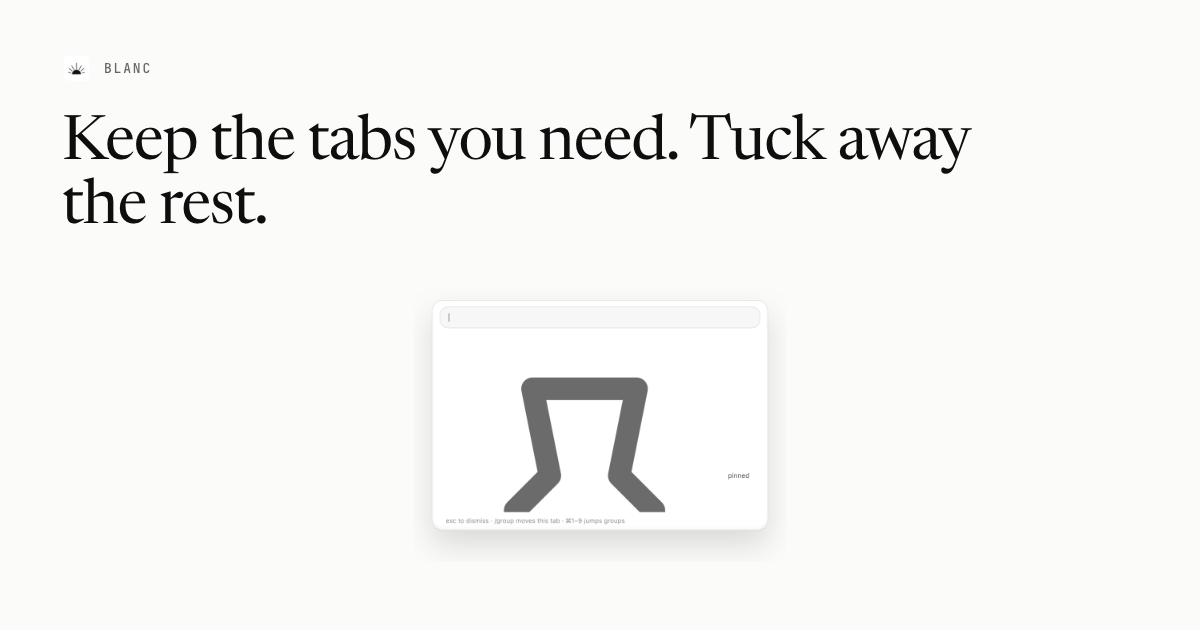
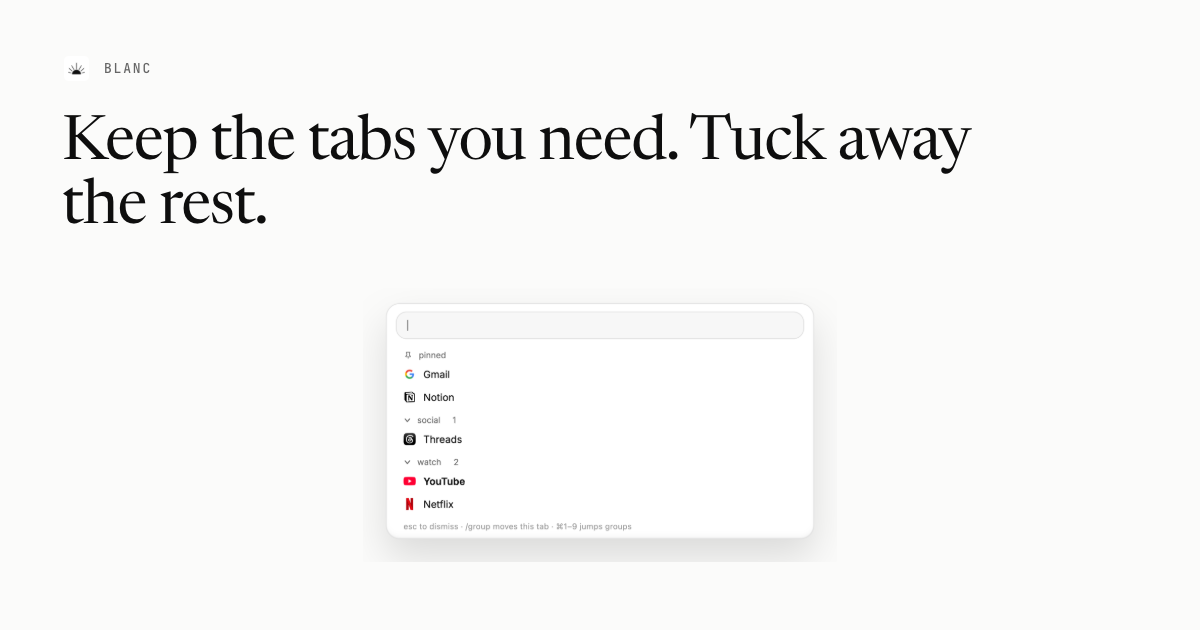
Fix oversized pin in tab-groups launch card (#282)

Changed region(s): [[0.3392, 0.573, 0.6167, 0.8746], [0.3392, 0.5429, 0.37, 0.6333]]

diff --git a/site/src/styles/site.css b/site/src/styles/site.css
@@ -665,6 +665,7 @@ a { color: inherit; }
 
 /* Section headers and named-group bands mirror the live panel. */
 .demo-island .sec-head { display: flex; align-items: center; gap: 8px; padding: 8px 10px 3px; font-family: var(--font-ui); font-size: 11px; color: var(--text-dim); }
+.demo-island .sec-head .ico { width: 12px; height: 12px; flex: 0 0 auto; }
 .demo-island .sec-head .caret { width: 10px; height: 10px; flex: 0 0 auto; transform: rotate(90deg); transition: transform 160ms ease; }
 .demo-island .sec-head.collapsed .caret { transform: rotate(0deg); }
 .demo-island .sec-head .count { flex: 0 0 auto; }
@@ -2144,4 +2145,3 @@ body[data-page="press"] > .legal-top { display: none; }
 .release-body h2 { font-size: 25px; }
 .download-detail-list h3, .feature-copy-list h3, .ambassador-fit-grid h3, .ambassador-steps h3 { font-size: 22px; letter-spacing: -0.005em; }
 .site-footer .foot-identity p { font-size: 20px; line-height: 1.3; color: var(--site-text); }
-
